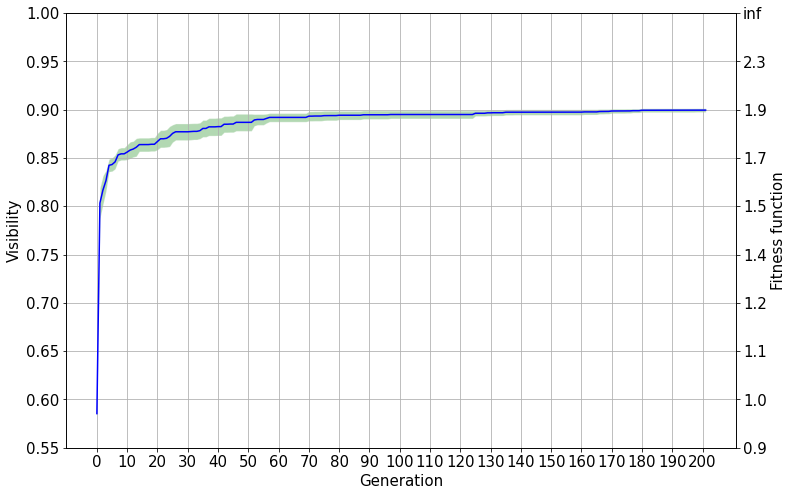
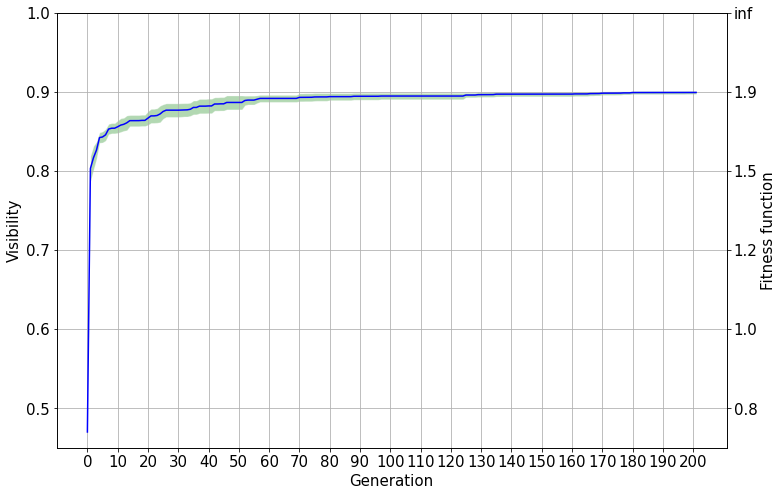
plot

diff --git a/BO_plots.py b/BO_plots.py
@@ -139,7 +139,7 @@ for i in range (len(good)):
 
 #%% Both (BO99, GA100)
 
-V_0=np.interp(0.967718, y, temp)
+V_0=0.47
 
 V_ensemble = pd.DataFrame(V_ensemble)
 
@@ -183,7 +183,7 @@ ax2.set_ylabel("Fitness function",fontsize=15)
 
 formatter = mticker.FuncFormatter(lambda x, pos:'{:.1f}'.format(x-np.log10(1-x)))
 ax2.yaxis.set_major_formatter(formatter)
-ax1.set_ylim(0.55,1)
+ax1.set_ylim(0.45,1)
 ax2.set_ylim(ax1.get_ylim())
 plt.show()
 
